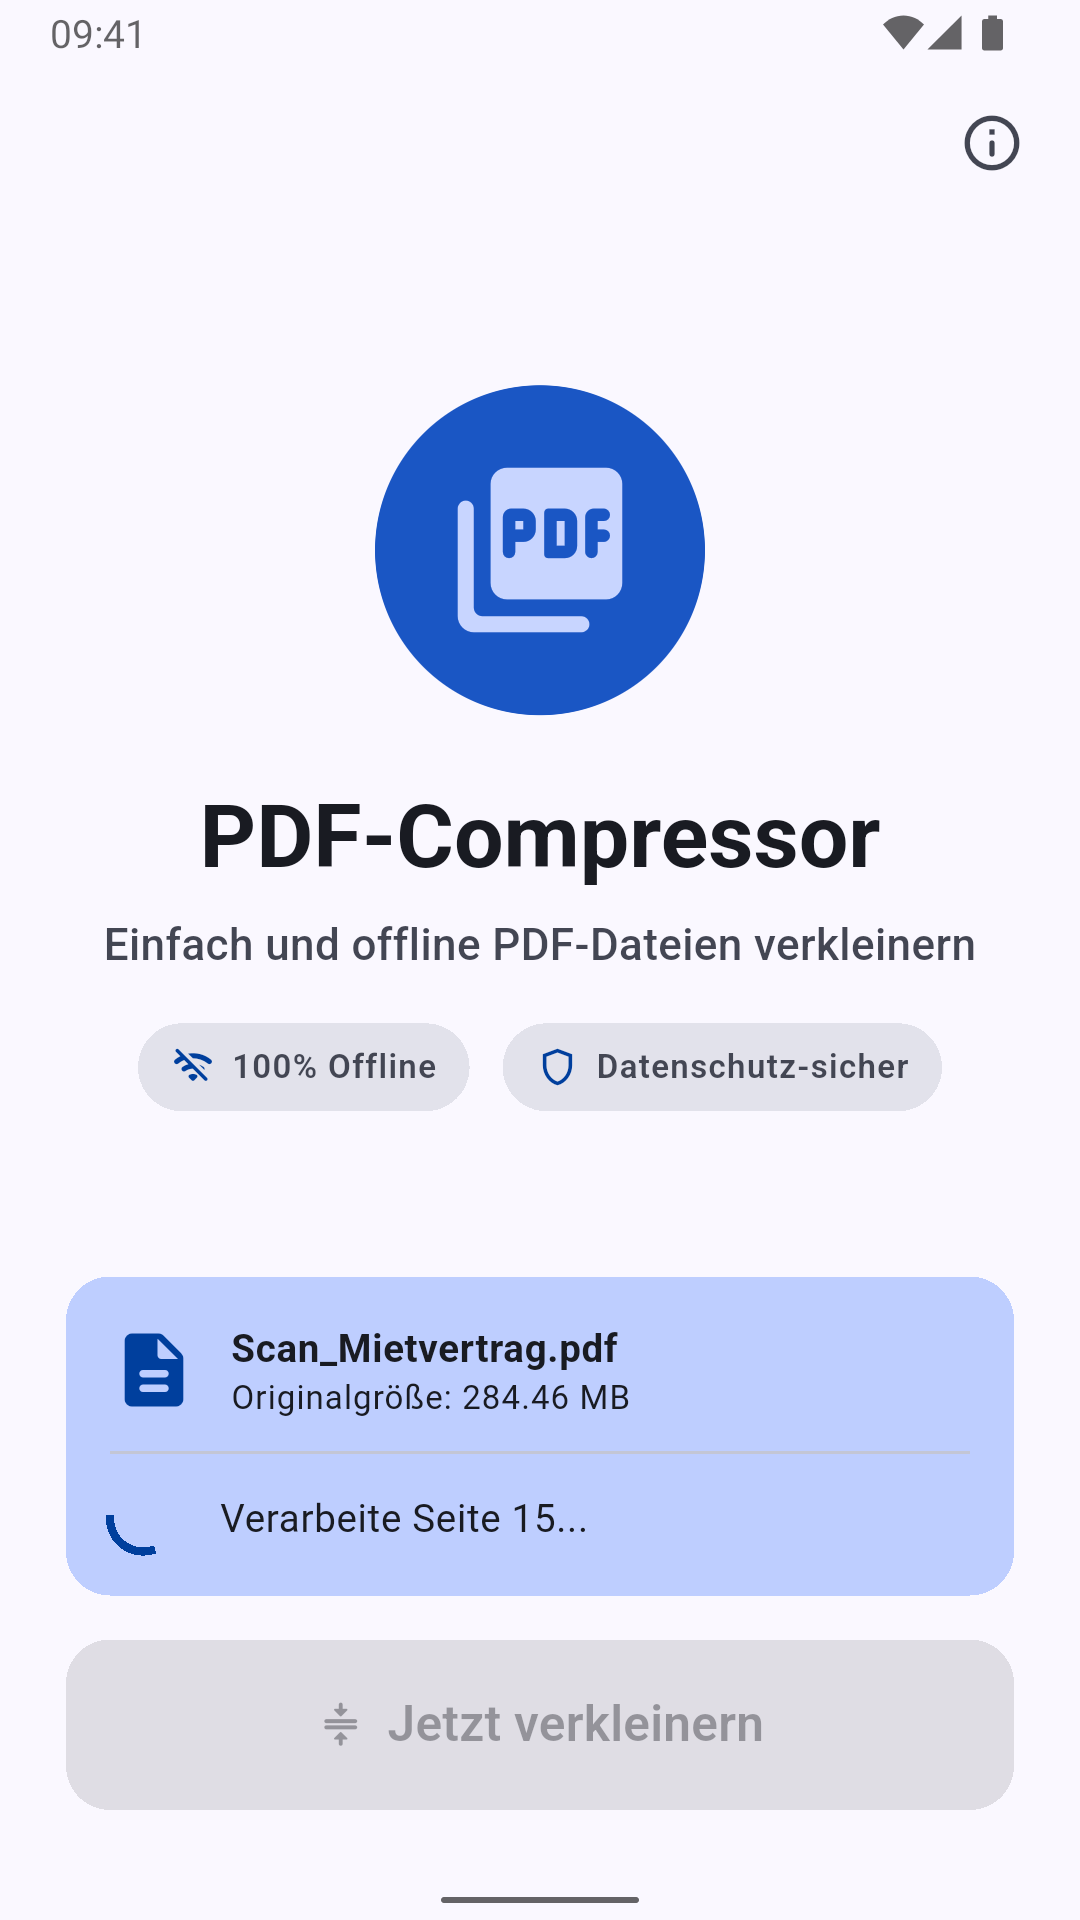
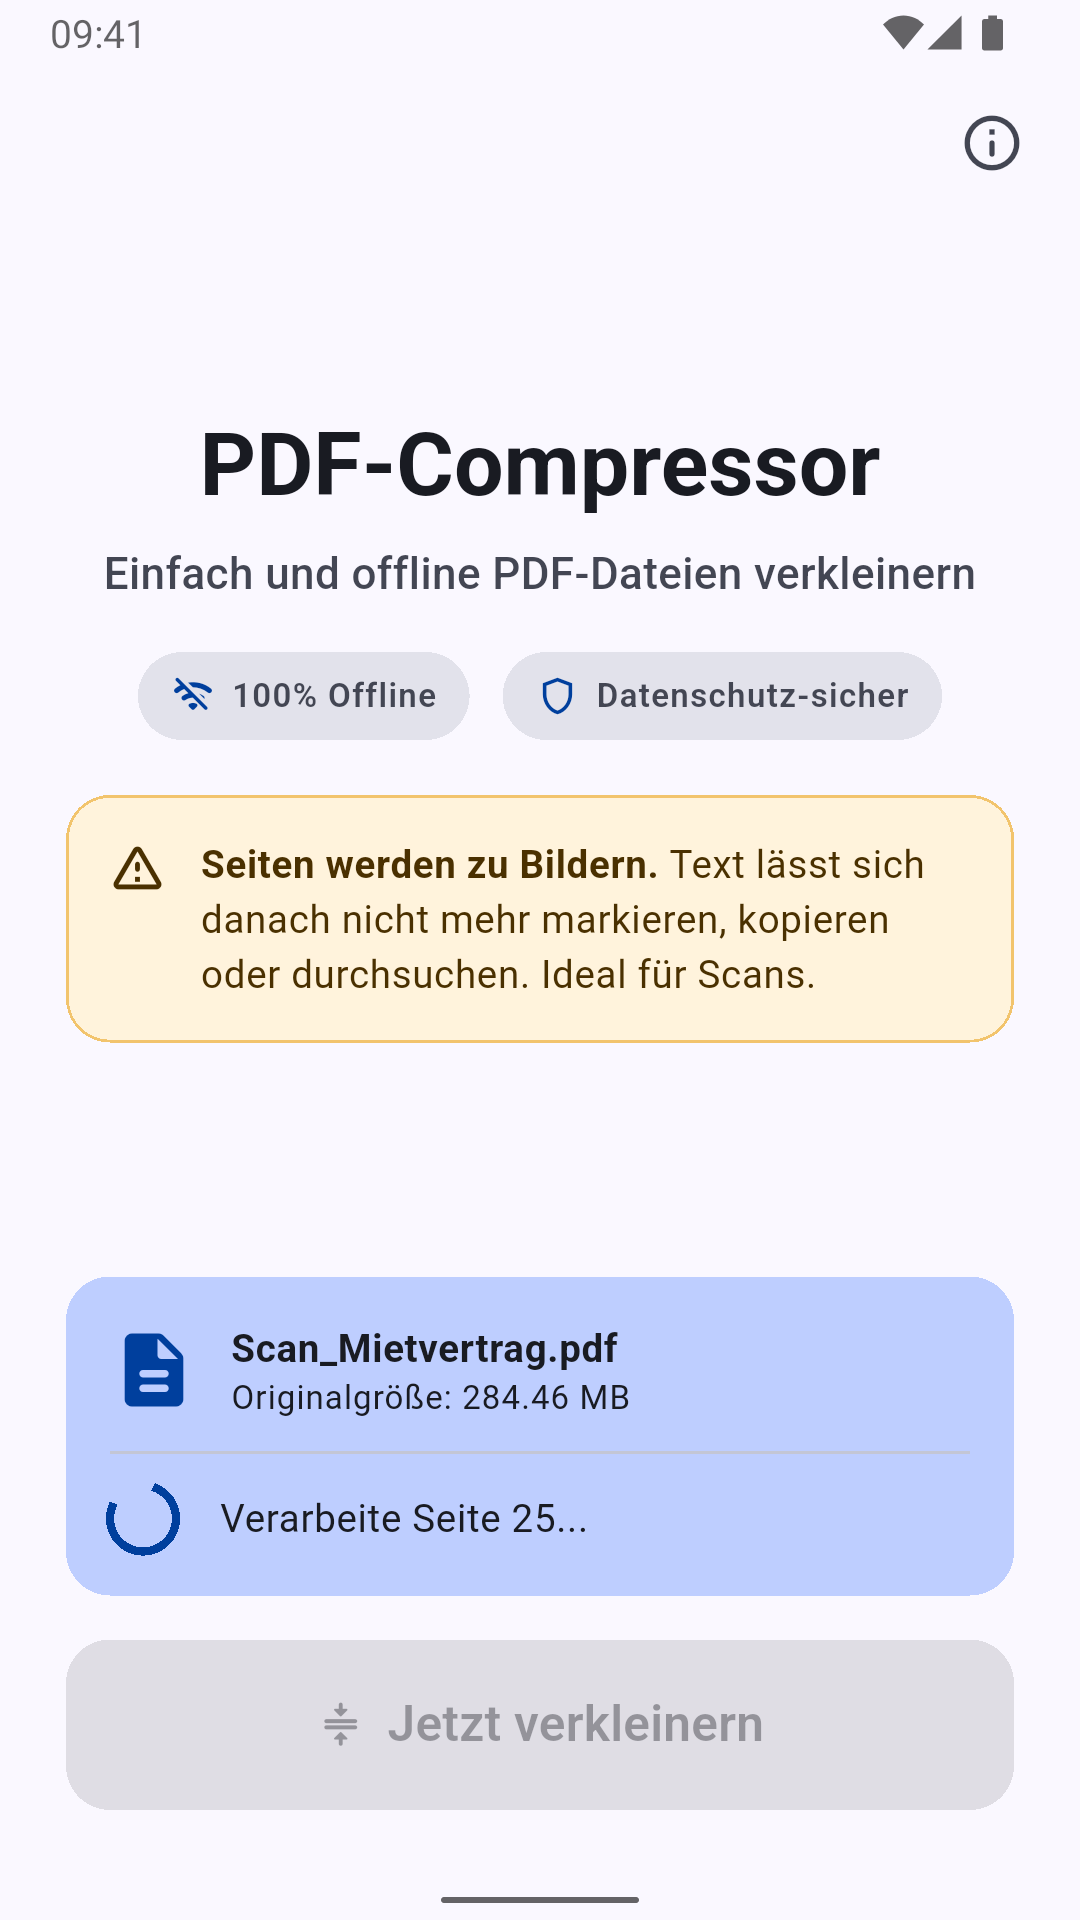
Play-Store-Screenshots mit Hinweis neu, Layout nach Dateiauswahl kompakter
- Großes PDF-Icon wird ausgeblendet, sobald eine Datei gewählt ist,
  damit der Button auch auf 9:16-Displays sichtbar bleibt
- Mindestabstand zwischen Hinweis und Dateikarte
- Vier deutsche Screenshots (1080×1920) neu aufgenommen

diff --git a/lib/main.dart b/lib/main.dart
@@ -492,22 +492,26 @@ class _LandingPageState extends State<LandingPage> {
                     children: [
                       const Spacer(),
 
-                      // Kopfbereich: Icon + Titel
-                      Center(
-                        child: Container(
-                          padding: const EdgeInsets.all(24),
-                          decoration: BoxDecoration(
-                            color: colorScheme.primaryContainer,
-                            shape: BoxShape.circle,
-                          ),
-                          child: Icon(
-                            Icons.picture_as_pdf_rounded,
-                            size: 72,
-                            color: colorScheme.onPrimaryContainer,
+                      // Kopfbereich: Icon + Titel. Das große Icon ist reine Deko und
+                      // wird ausgeblendet, sobald eine Datei gewählt ist, damit
+                      // Dateikarte und Button auch auf kleineren Displays passen.
+                      if (_selectedFile == null) ...[
+                        Center(
+                          child: Container(
+                            padding: const EdgeInsets.all(24),
+                            decoration: BoxDecoration(
+                              color: colorScheme.primaryContainer,
+                              shape: BoxShape.circle,
+                            ),
+                            child: Icon(
+                              Icons.picture_as_pdf_rounded,
+                              size: 72,
+                              color: colorScheme.onPrimaryContainer,
+                            ),
                           ),
                         ),
-                      ),
-                      const SizedBox(height: 24),
+                        const SizedBox(height: 24),
+                      ],
                       Text(
                         _l.appTitle,
                         textAlign: TextAlign.center,
@@ -550,6 +554,8 @@ class _LandingPageState extends State<LandingPage> {
                       ],
 
                       const Spacer(),
+                      // Mindestabstand, falls der Spacer auf null schrumpft
+                      const SizedBox(height: 16),
 
                       // Wenn eine Datei ausgewählt wurde: Datei-Info & Einstellungen anzeigen
                       if (_selectedFile != null) ...[
